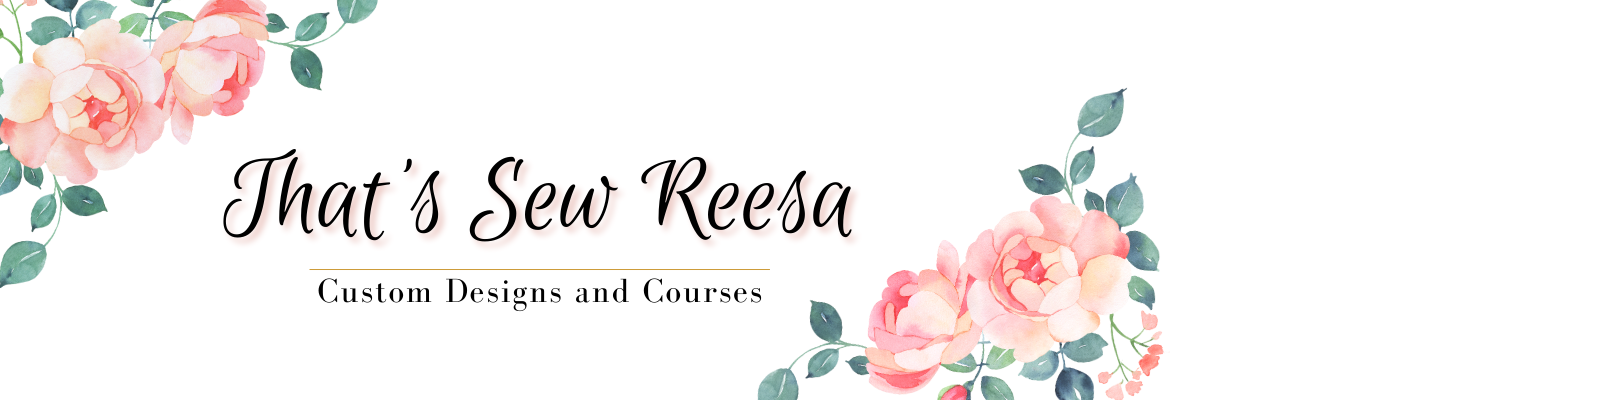
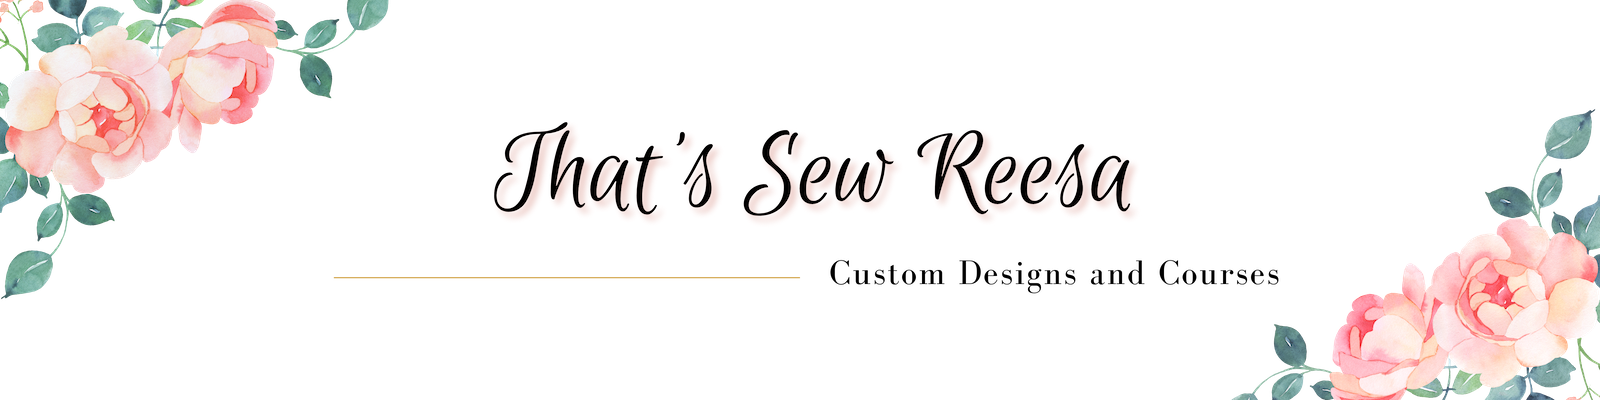
update 1116

Changed region(s): [[0.125, 0.21, 0.8125, 1.0], [0.0, 0.0, 0.25, 0.75], [0.75, 0.27, 1.0, 1.0]]

diff --git a/sew_reesa/styles/styles.css b/sew_reesa/styles/styles.css
@@ -8,168 +8,188 @@ Fonts are separated by a | */
   --primary-color: #ffe4e4   ;
   --secondary-color: #6ba56389 ;
   --accent1-color: #f6927c;
-  --accent2-color: rgb(246, 217, 145);
+  --accent2-color: rgb(246, 209, 145);
 
   /* change the values below to your chosen font(s) */
-  --heading-font: "IM Fell French Canon SC";
-  --paragraph-font: Lato, Helvetica, sans-serif;
+  --heading-font: "Euphoria+Script," Helvetica;
+  --paragraph-font: "Bonodi+Moda", Helvetica, Serif;
 
   /* these colors below should be chosen from among your palette colors above */
-  --headline-color-on-white: #396E94;  /* headlines on a white background */ 
+  --headline-color-on-white: white;  /* headlines on a white background */ 
   --headline-color-on-color: white; /* headlines on a colored background */ 
-  --paragraph-color-on-white: #396E94; /* paragraph text on a white background */ 
+  --paragraph-color-on-white: white; /* paragraph text on a white background */ 
   --paragraph-color-on-color: white; /* paragraph text on a colored background */ 
-  --paragraph-background-color: #396E94  ;
-  --nav-link-color: #396E94;
-  --nav-background-color: #D4AC0D;
-  --nav-hover-link-color: white;
+  --paragraph-background-color: white;
+  --nav-link-color: black;
+  --nav-background-color: #ffe4e4 ;
+  --nav-hover-link-color: #ffe4e4 ;
   --nav-hover-background-color: #396E94;
 }
-
-
-/*  Look around below...but DON'T CHANGE ANYTHING! */
-
 body {
-  max-width: 1200px;
-  margin: 0 auto;
-  padding: 4em;
-  font-size: 18px;
-  text-align: center;
+    background-color: white;
+    font-family: 'Inclusive Sans', Arial, Helvetica, sans-serif;
+    font-size: 1em;
+    margin: 0;
+    padding:0;
+    z-index: 1;
 }
-img {
-  display: block;
-  margin: 0 auto;
-}
-h1, h2, h3, h4, h5, h6 {
-  font-family: var(--heading-font);
-  color: var(--headline-color-on-white);
-}
-h2 {
-  text-align: center;
-}
-hr {
-  height: 3px;
-  margin: 35px 0;
-  background: var(--accent1-color);
+#content {
+    margin: 0 auto;
+    max-width: 100%;
 }
 header {
-  padding: 1em;
-  text-align: center;
-  color: var(--headline-color-on-color);
-  background-color: var(--paragraph-background-color);
+    background-color: #fbe4e2;
+    font-family: Haettenschweiler,'PT Serif', Impact, 'Arial Narrow Bold', sans-serif;
+    font-size: 1em;
+    display: grid;
+    grid-template-columns: 150px auto;
+    height: 75px;
+    max-width: 100%;
 }
-header > h1, header > h2 {
-  color: var(--headline-color-on-color);
+.logo {
+    width: 60px;
+    border-radius: 50%;
+    border: 2px solid #fbe4e2;
 }
-
-p {
-  font-family: var(--paragraph-font);
-  color: var(--paragraph-color-on-white);
-  padding: 1em;
+#logo_link {
+    padding-top: 5px;
+    justify-self: center;
+    align-self: center;
 }
-.colors {
-  width: 100%;
-  min-width: 350px;
-  margin: 30px auto;
-  text-align: center;
-}
-.colors th {
-  background-color: #999;
-}
-.colors td{
-  width: 25%;
-  height: 3em;
-}
-
-.primary {
-  background-color: var(--primary-color);
-}
-.secondary {
-  background-color: var(--secondary-color);
-}
-.accent1 {
-  background-color: var(--accent1-color);
-}
-.accent2{
-  background-color: var(--accent2-color);
-}
-
-p.colored {
-  background-color: var(--paragraph-background-color);
-  color: var(--paragraph-color-on-color);
-}
-
 nav {
-  background-color: var(--nav-background-color);
-  line-height: 3em;
-  text-align: center;
-  font-size: 1.2em;
-}
-nav  {
-  list-style-type: none;
-  display: flex;
-
+    display: flex;
+    justify-content: space-around;
+    text-align: center;
+    margin-top: 20px;;
 }
 nav a {
-  padding:1em;
-  min-width: 120px;
-  text-decoration: none;
-  padding: 10px;
-
-}
-nav a:link, nav a:visited {
-  color: var(--nav-link-color);
+    text-align: center;
+    color:black;
+    text-decoration: none;
+    padding: 5px;
 }
 nav a:hover {
-  color: var(--nav-hover-link-color);
-  background-color: var(--nav-hover-background-color);
+    background-color: #6e8392;
+    color:white;
+    padding: 5px;
+    width: 80px;
+    margin-bottom: 20px
+}
+#hero {
+    display: grid;
+    grid-template-columns: 1fr 3fr 1fr;
+    margin-top: -100px;
+}
+#hero-box {
+    grid-column: 1/4;
+    grid-row: 1/3;
+    z-index: -1;
+}
+#hero-img {
+    width:100%;
+    padding-top: 90px;
+    border-top: 7px #032c2e89 solid ;
+}
+#hero-msg h4 {
+    color: white;
+}
+#hero-msg h1, #hero-msg h4 {
+    text-align: center;
+    color: white;
+}
+#hero-msg h1 {
+    font-size: 50px;
+}
+.button-box {
+    text-align: center;
+    width: 100%;
+    height: 25px;
+}
+.book {
+    background-color: #fcf2f2;
+    color:darkslategray;
+    text-decoration: none;
+    text-align: center;
+    width: 50px;
+    height: 50px;
+    padding: 5px; 
+    border-radius: 10px;
+    border: 4px ridge #032c2e89;
+
+}
+.book:hover {
+    background-color:#032c2e89;
+    color:black;
+    text-align: center;
+}
+.home-grid {
+    /* controls all things for the main section */
+    text-align: center;
+    display: grid;
+    grid-template-columns: 10fr;
+    max-width: 100%;
+}
+#background {
+    height: 900px;
+    width: 100%;
+    background-color:white;
+    grid-column: 1/11;
+    grid-row: 4/9;
 }
 
-.sitemap {
-  display: grid;
-  justify-content: center;
-
-  grid-template-columns: repeat(6, 15%);
-  grid-template-rows: 3em 1.5em 1.5em 3em;
-  grid-template-areas: ". . home home . ."
-    ". . . top . ."
-    ". left left right right ."
-    "page2 page2 . . page3 page3";
+.social a img {
+    max-width: 50px;
+    padding: 10px;
 }
-.sitemap > div {
-
-  text-align: center;
-
+footer {
+    display: flex;
+    justify-content: space-around;
+    align-items: center;
+    max-width: 100%;
 }
-.sm-home {
-  grid-area: home;
-  background-color: #ccc;
-  line-height: 3em;
+footer, footer a, footer p {
+    background-color: #fbe4e2;
+    color:rgb(190, 170, 170);
+    font-size: small;
+    text-decoration: none;
 }
-.sm-page2 {
-  grid-area: page2;
-  background-color: #ccc;
-  line-height: 3em;
+footer a:hover {
+    color: white
 }
-.sm-page3 {
-  grid-area: page3;
-  background-color: #ccc;
-  line-height: 3em;
-}
-
-.top {
-  grid-area: top;
-  border-left: 1px solid;
-}
-
-.left {
-  grid-area: left;
-  border-top: 1px solid;
-  border-left: 1px solid;
-}
-
-.right {
-  grid-area: right;
-  border-top: 1px solid;
-  border-right: 1px solid;
+@media screen and (max-width: 900px) {
+    #hero, .home-grid {
+        display: block;
+        height: auto;
+    }
+    nav, footer {
+        flex-direction: column;
+    }
+    nav a {
+        display: block;
+        padding: 15px;
+    }
+    #hero {
+        margin-top: 0;
+    }
+    #hero-msg {
+        margin-top: 0;
+    }
+    #hero-msg h4 {
+        display: none;
+    }
+    .home-title {
+        font-size: 25px;
+        color: #6f7364;
+    }
+    #background {
+        display: none;
+    }
+    .mountains, .msg {
+        width: 80%;
+        display: block;
+        margin: 0 auto;
+    }
+    footer {
+        margin-top: 25px;
+    }
 }

diff --git a/sew_reesa/sewing.html b/sew_reesa/sewing.html
@@ -12,7 +12,7 @@
 <body>
     <div id="content">
         <header>
-            <a id="logo_link" href="index.html">
+            <a id="logo_link" href="sewing.html".html">
                 <img class="logo" src="images/logo.jpeg" alt="That's Sew Reesa">
             </a>
             <nav>

diff --git a/sew_reesa/alterations.html b/sew_reesa/alterations.html
@@ -12,7 +12,7 @@
 <body>
     <div id="content">
         <header>
-            <a id="logo_link" href="index.html">
+            <a id="logo_link" href="alterations.html">
                 <img class="logo" src="images/logo.jpeg" alt="That's Sew Reesa">
             </a>
             <nav>

diff --git a/sew_reesa/christmas.html b/sew_reesa/christmas.html
@@ -12,7 +12,7 @@
 <body>
     <div id="content">
         <header>
-            <a id="logo_link" href="index.html">
+            <a id="logo_link" href="christmas.html">
                 <img class="logo" src="images/logo.jpeg" alt="That's Sew Reesa">
             </a>
             <nav>

diff --git a/sew_reesa/contactus.html b/sew_reesa/contactus.html
@@ -12,7 +12,7 @@
 <body>
     <div id="content">
         <header>
-            <a id="logo_link" href="index.html">
+            <a id="logo_link" href="contactus.html">
                 <img class="logo" src="images/logo.jpeg" alt="That's Sew Reesa">
             </a>
             <nav>

diff --git a/sew_reesa/tutorials.html b/sew_reesa/tutorials.html
@@ -12,7 +12,7 @@
 <body>
     <div id="content">
         <header>
-            <a id="logo_link" href="index.html">
+            <a id="logo_link" href="tutorials.html">
                 <img class="logo" src="images/logo.jpeg" alt="That's Sew Reesa">
             </a>
             <nav>

diff --git a/sew_reesa/crafty.html b/sew_reesa/crafty.html
@@ -12,7 +12,7 @@
 <body>
     <div id="content">
         <header>
-            <a id="logo_link" href="index.html">
+            <a id="logo_link" href="crafty.html">
                 <img class="logo" src="images/logo.jpeg" alt="That's Sew Reesa">
             </a>
             <nav>
